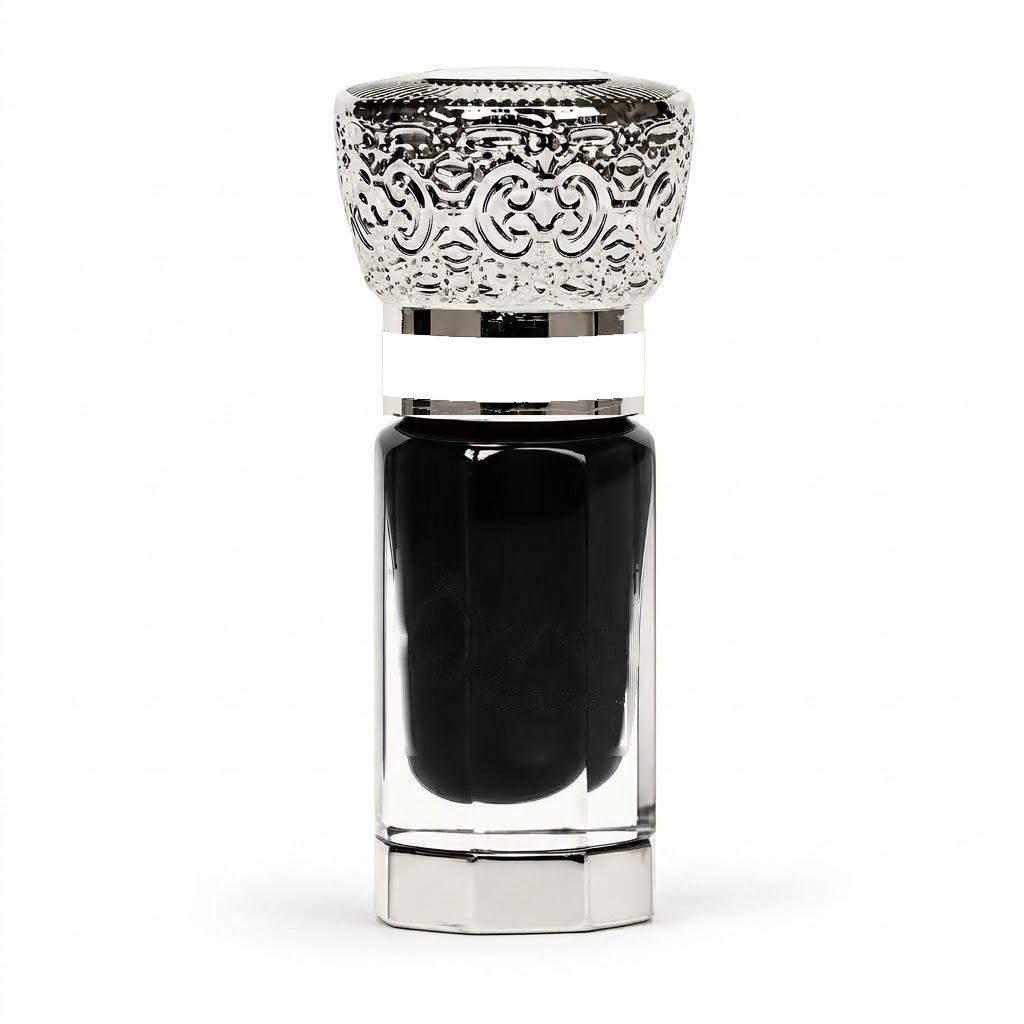
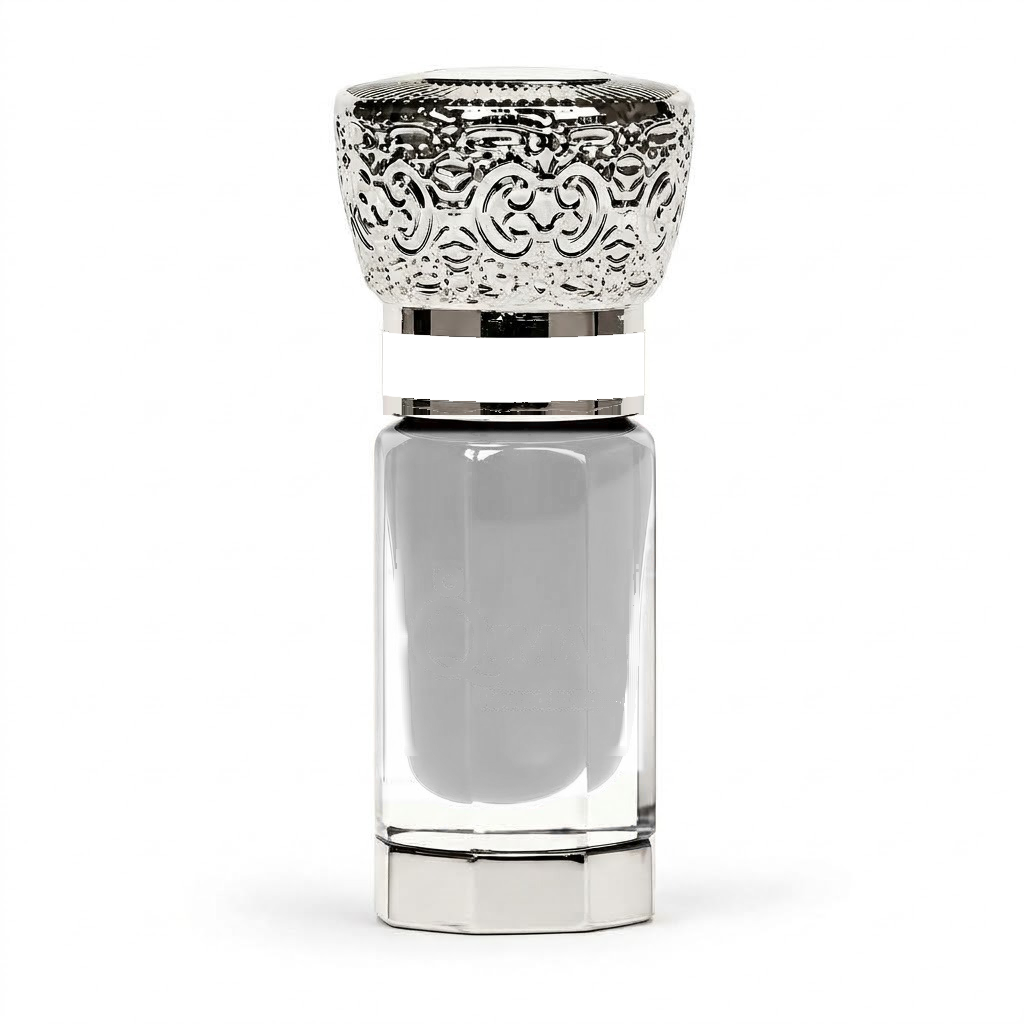
fix(luxury-6ml): match 3ml polished chrome finish, curved label, clear liquid, and scale proportions to be wider

Changed region(s): [[0.3438, 0.4062, 0.6562, 0.8125]]

diff --git a/src/lib/canvas/templates.ts b/src/lib/canvas/templates.ts
@@ -112,20 +112,20 @@ export const TEMPLATES: Record<string, ProductTemplate> = {
       logo: '/templates/luxury-6ml/logo.png',
     },
     label: {
-      x: 391,
-      y: 380,
-      width: 247,
-      height: 59,
+      x: 364,
+      y: 338,
+      width: 296,
+      height: 63,
       fontSize: 25,
       fontFamily: 'Inter, system-ui, -apple-system, sans-serif',
       fontWeight: '700',
       fontColor: '#000000',
     },
     oil: {
-      x: 361,
-      y: 434,
-      width: 316,
-      height: 444,
+      x: 342,
+      y: 428,
+      width: 348,
+      height: 382,
     },
     disabled: false,
   },
